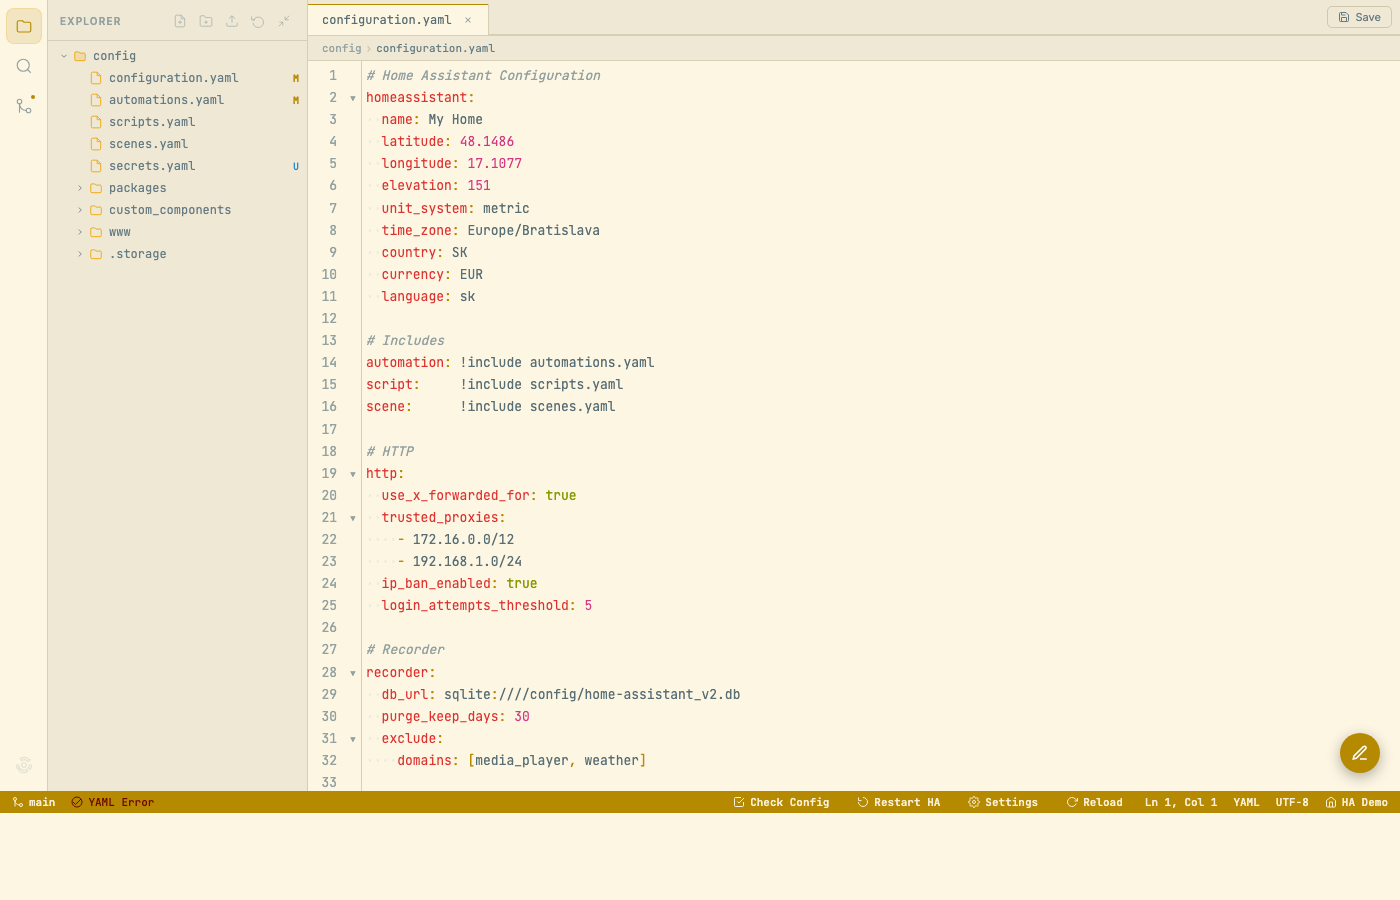
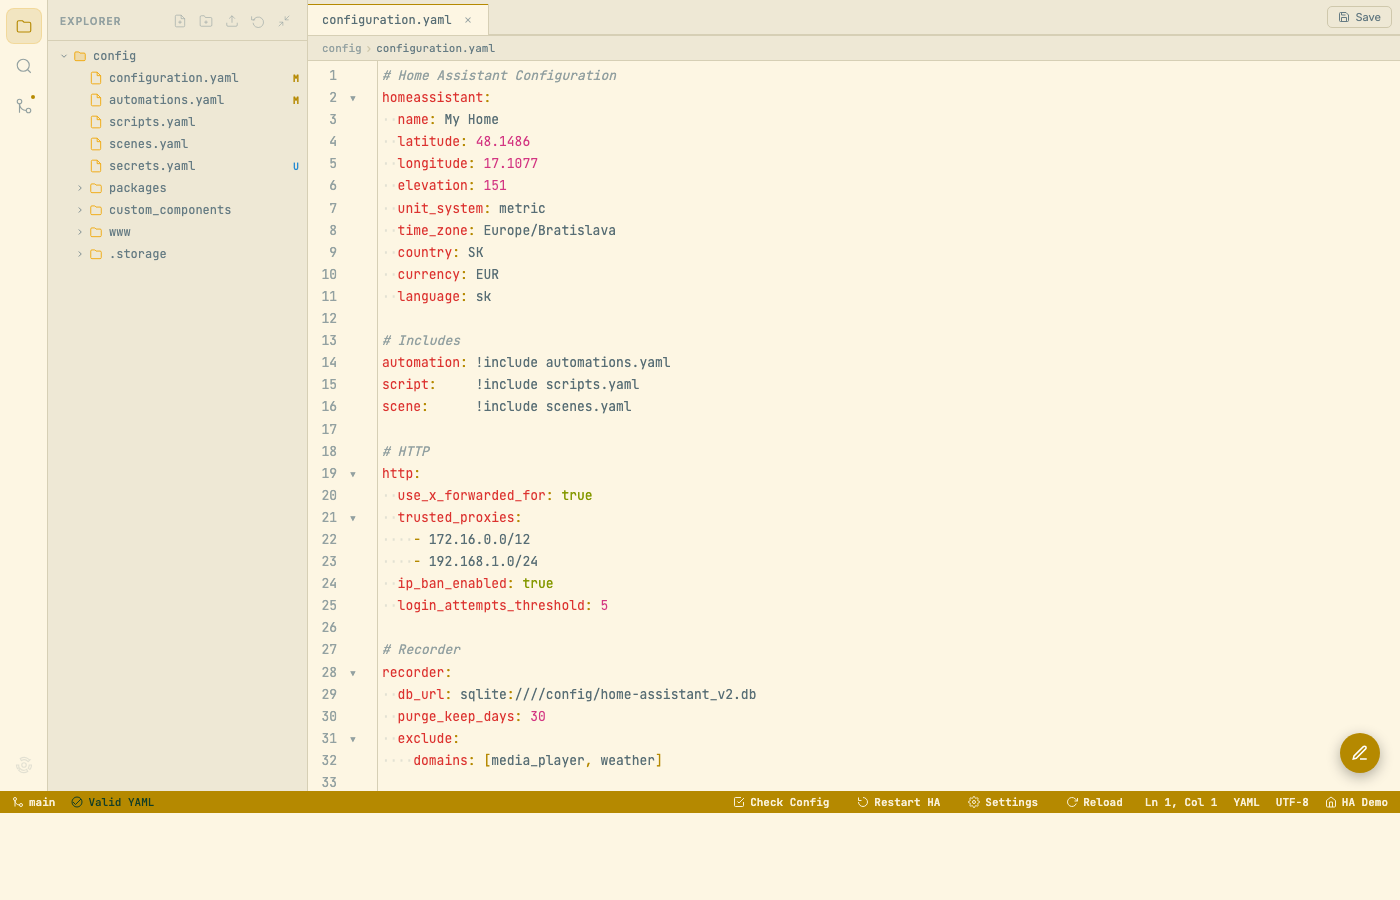
1.3.7: HA-aware YAML validation + inline error markers
- Register HA's custom YAML tags (!include, !include_dir_*,
  !secret, !env_var, !input) as no-op scalars/mappings/sequences
  on a derived js-yaml schema, so real configuration.yaml files
  stop false-erroring on "unknown tag".
- Wire CodeMirror's lint addon with a custom registerHelper that
  runs js-yaml against the HA schema and returns {from,to,message}
  at the failing line. Red gutter marker + hover tooltip.
- Status bar now reports "Line N: <message>" and is clickable to
  jump the cursor to the error location.
- Whitespace dot intensity 15% -> 25% per feedback.

diff --git a/file_editor_pro/index.html b/file_editor_pro/index.html
@@ -404,7 +404,7 @@
     .cm-s-ha .cm-ws-space{
       background-image:radial-gradient(
         circle,
-        color-mix(in srgb, var(--text-muted) 15%, transparent) 1px,
+        color-mix(in srgb, var(--text-muted) 25%, transparent) 1px,
         transparent 1.4px
       );
       background-size:1ch 1em;
@@ -415,8 +415,8 @@
       background-image:linear-gradient(
         to right,
         transparent 2px,
-        color-mix(in srgb, var(--text-muted) 15%, transparent) 2px,
-        color-mix(in srgb, var(--text-muted) 15%, transparent) 4px,
+        color-mix(in srgb, var(--text-muted) 25%, transparent) 2px,
+        color-mix(in srgb, var(--text-muted) 25%, transparent) 4px,
         transparent 4px
       );
       background-repeat:no-repeat;
@@ -853,6 +853,7 @@
 <script src="https://cdnjs.cloudflare.com/ajax/libs/codemirror/5.65.16/addon/comment/comment.min.js"></script>
 <script src="https://cdnjs.cloudflare.com/ajax/libs/codemirror/5.65.16/addon/hint/show-hint.min.js"></script>
 <script src="https://cdnjs.cloudflare.com/ajax/libs/codemirror/5.65.16/addon/hint/anyword-hint.min.js"></script>
+<script src="https://cdnjs.cloudflare.com/ajax/libs/codemirror/5.65.16/addon/lint/lint.min.js"></script>
 <script src="https://cdnjs.cloudflare.com/ajax/libs/js-yaml/4.1.0/js-yaml.min.js"></script>
 
 <script>
@@ -1166,7 +1167,8 @@ function initEditor() {
     matchBrackets: true,
     styleActiveLine: true,
     foldGutter: true,
-    gutters: ['CodeMirror-linenumbers', 'CodeMirror-foldgutter'],
+    gutters: ['CodeMirror-linenumbers', 'CodeMirror-foldgutter', 'CodeMirror-lint-markers'],
+    lint: true,
     foldOptions: { rangeFinder: CodeMirror.fold.indent },
     extraKeys: {
       'Ctrl-S':  saveCurrentFile,
@@ -1431,18 +1433,80 @@ function promptNewFile() {
 // ═══════════════════════════════════════════════════════════════
 // YAML VALIDATION
 // ═══════════════════════════════════════════════════════════════
+// Home Assistant uses custom YAML tags. js-yaml doesn't know them
+// out of the box, so every !include, !secret, etc. would be flagged
+// as an "unknown tag" error on real HA configs. Register them as
+// no-op scalars — we're validating syntax, not resolving references.
+const HA_TAG_NAMES = [
+  '!include',
+  '!include_dir_list',
+  '!include_dir_merge_list',
+  '!include_dir_named',
+  '!include_dir_merge_named',
+  '!secret',
+  '!env_var',
+  '!input',
+];
+const HA_TYPES = HA_TAG_NAMES.flatMap(tag => [
+  new jsyaml.Type(tag, { kind: 'scalar',   construct: d => d }),
+  new jsyaml.Type(tag, { kind: 'mapping',  construct: d => d }),
+  new jsyaml.Type(tag, { kind: 'sequence', construct: d => d }),
+]);
+const HA_SCHEMA = jsyaml.DEFAULT_SCHEMA.extend(HA_TYPES);
+
+function parseYAMLwithHA(text) {
+  return jsyaml.loadAll(text, undefined, { schema: HA_SCHEMA });
+}
+
+// CodeMirror lint source — returns [{from,to,message,severity}].
+// Hover the marker in the gutter to see the message; the status
+// bar mirrors the first error.
+CodeMirror.registerHelper('lint', 'yaml', function (text) {
+  const found = [];
+  try {
+    parseYAMLwithHA(text);
+  } catch (e) {
+    const mark = e.mark || {};
+    const line = mark.line ?? 0;
+    const col  = mark.column ?? 0;
+    found.push({
+      from: CodeMirror.Pos(line, Math.max(0, col - 1)),
+      to:   CodeMirror.Pos(line, col + 1),
+      message: e.reason ? `${e.reason}` : (e.message || 'YAML error'),
+      severity: 'error',
+    });
+  }
+  return found;
+});
+
 function validateYAML() {
   const errEl = document.getElementById('status-errors');
   const errTxt = document.getElementById('status-errors-text');
   const tab = tabs.find(t => t.id === activeTabId);
-  if (!tab || tab.mode !== 'yaml') { errTxt.textContent = '–'; errEl.className='status-item'; return; }
+  if (!tab || tab.mode !== 'yaml') {
+    errTxt.textContent = '–';
+    errEl.className = 'status-item';
+    errEl.title = '';
+    return;
+  }
   try {
-    jsyaml.loadAll(editor.getValue());
+    parseYAMLwithHA(editor.getValue());
     errTxt.textContent = 'Valid YAML';
     errEl.className = 'status-item status-ok-state';
+    errEl.title = '';
   } catch (e) {
-    errTxt.textContent = 'YAML Error';
-    errEl.className = 'status-item status-error-state';
+    const mark = e.mark || {};
+    const line = (mark.line ?? 0) + 1;
+    const msg  = e.reason || e.message || 'YAML error';
+    errTxt.textContent = `Line ${line}: ${msg.slice(0, 60)}${msg.length > 60 ? '…' : ''}`;
+    errEl.className = 'status-item status-error-state status-clickable';
+    errEl.title = `${msg}\n\nClick to jump to line ${line}.`;
+    errEl.onclick = () => {
+      if (editor) {
+        editor.focus();
+        editor.setCursor(line - 1, mark.column ?? 0);
+      }
+    };
   }
 }
 

diff --git a/file_editor_pro/CHANGELOG.md b/file_editor_pro/CHANGELOG.md
@@ -1,5 +1,12 @@
 # Changelog
 
+## 1.3.7 — HA-aware YAML validation + inline error markers
+
+- **HA YAML tags recognised**: `!include`, `!include_dir_list`, `!include_dir_merge_list`, `!include_dir_named`, `!include_dir_merge_named`, `!secret`, `!env_var`, `!input` now parse without error. Previously every `configuration.yaml` showed a spurious "YAML Error" because `js-yaml` doesn't know those tags by default.
+- **Inline error markers**: CodeMirror's lint addon is wired, so a real syntax error now shows a red marker in the gutter at the failing line; hover it for the parser's message.
+- **Status bar shows the error message**: the YAML indicator now reads `Line 47: mapping values are not allowed here` instead of just "YAML Error". Click it to jump to the bad line.
+- Whitespace dot intensity raised from 15% → 25%.
+
 ## 1.3.6 — Restore dark icon and logo
 
 - Reverted `icon.png` and `logo.png` to the original dark ha-palette look (navy tile, amber dashes, light-grey rows) while keeping the 320 px-wide logo canvas from 1.3.4 so the "Pro" wordmark still fits on HA's Info tab.
